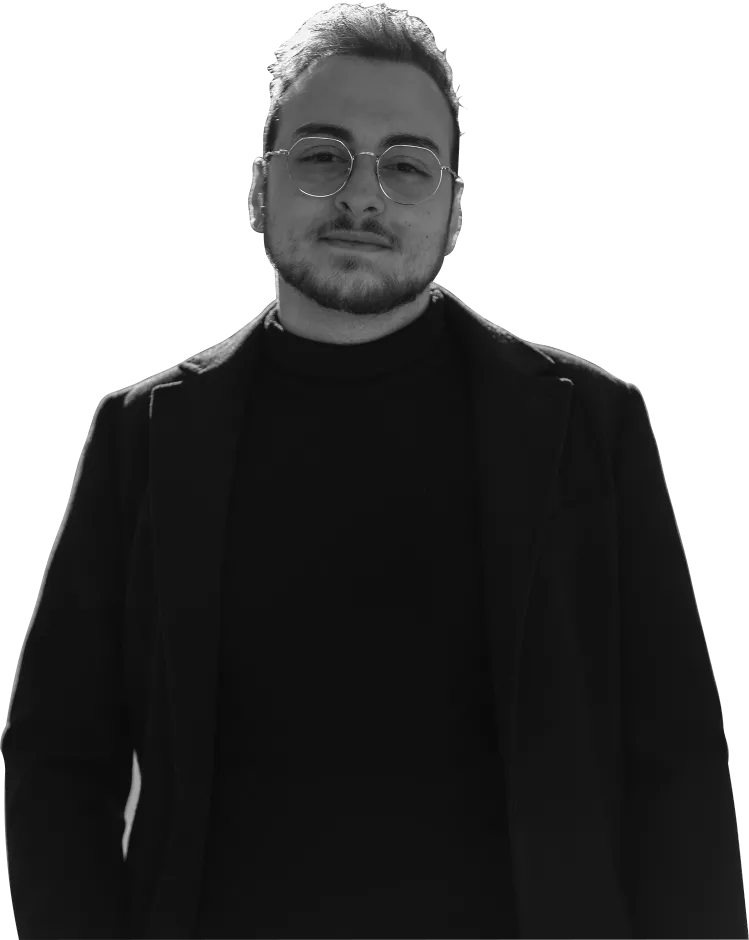
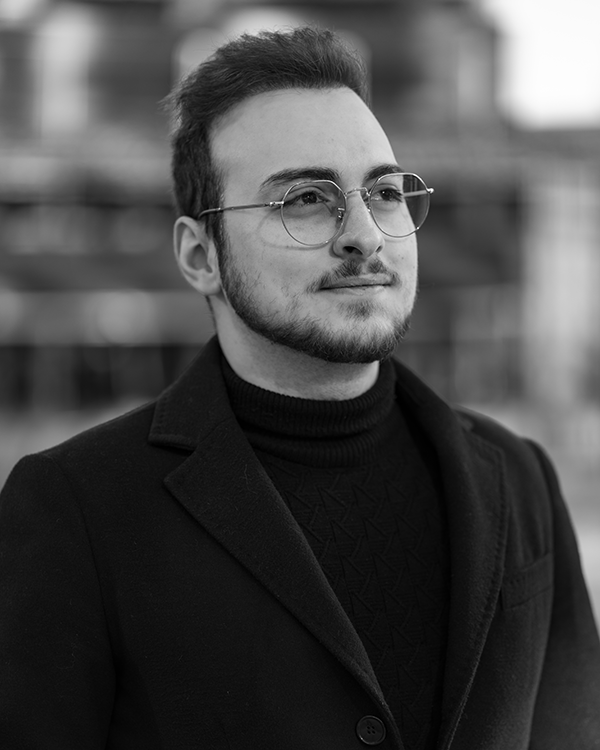
Changed profile image

diff --git a/components/layout/sections/about-me/who.tsx b/components/layout/sections/about-me/who.tsx
@@ -1,4 +1,3 @@
-import Image from "@/components/ui/core/image";
 
 import { breakpoints } from '@/shared-data/theme';
 
@@ -9,6 +8,7 @@ import Text from '@/components/ui/core/text';
 
 import Background from "@/components/background";
 import SizableBox from '@/components/ui/common/section/sizable-box';
+import Image from 'next/image';
 
 export default function WhoSection() {
   return (
@@ -31,8 +31,8 @@ export default function WhoSection() {
         <SectionWrapper 
           direction={[,"column-reverse"]}
           ssx={{ 
-            pt: "100px", my: "20px",
-            [breakpoints.tablet]: { pt: "50px", mt: 0 },
+            pt: "50px", my: "20px", gap: "40px",
+            [breakpoints.tablet]: { mt: 0 },
           }}
         >
 
@@ -66,32 +66,40 @@ export default function WhoSection() {
 
           <SizableBox 
             width={["35%"]} 
-            ssx={{ 
-              position: "absolute", right: 0, bottom: "-60px", justifyContent: "flex-end",
-              [breakpoints.mobile]: { position: "unset", mb: "20px", width: "100%" }
-            }}
+            ssx={{ position :"relative", zIndex: 0 }}
           >
 
-            <Image
-              src="/images/chisono/io.webp"
-              alt="Chi sono"
-              title="Chi è Andrea Losavio"
-              priority
-              width={1498}
-              height={1880}
-            />
+            <div
+              sx={{
+                borderRadius: "100%",
+                overflow: "hidden",
+                height: "300px",
+                width: "300px",
+                mx: "auto",
+                boxShadow: "0px 9px 30px #00274eB0"
+              }}
+            >
+              <Image
+                src="/images/chisono/io.webp"
+                alt="Chi sono"
+                title="Chi è Andrea Losavio"
+                priority
+                width={1498}
+                height={1880}
+              />
+            </div>
             
           </SizableBox>
 
         </SectionWrapper>
 
-        <Background 
-          bgImg="blue" 
-          placement="top" 
-          ssx={{ mb: "-1px" }}
-        />
-
       </Section>
+
+      <Background 
+        bgImg="blue" 
+        placement="top" 
+        ssx={{ mb: "-1px" }}
+      />
 
     </>
   )
